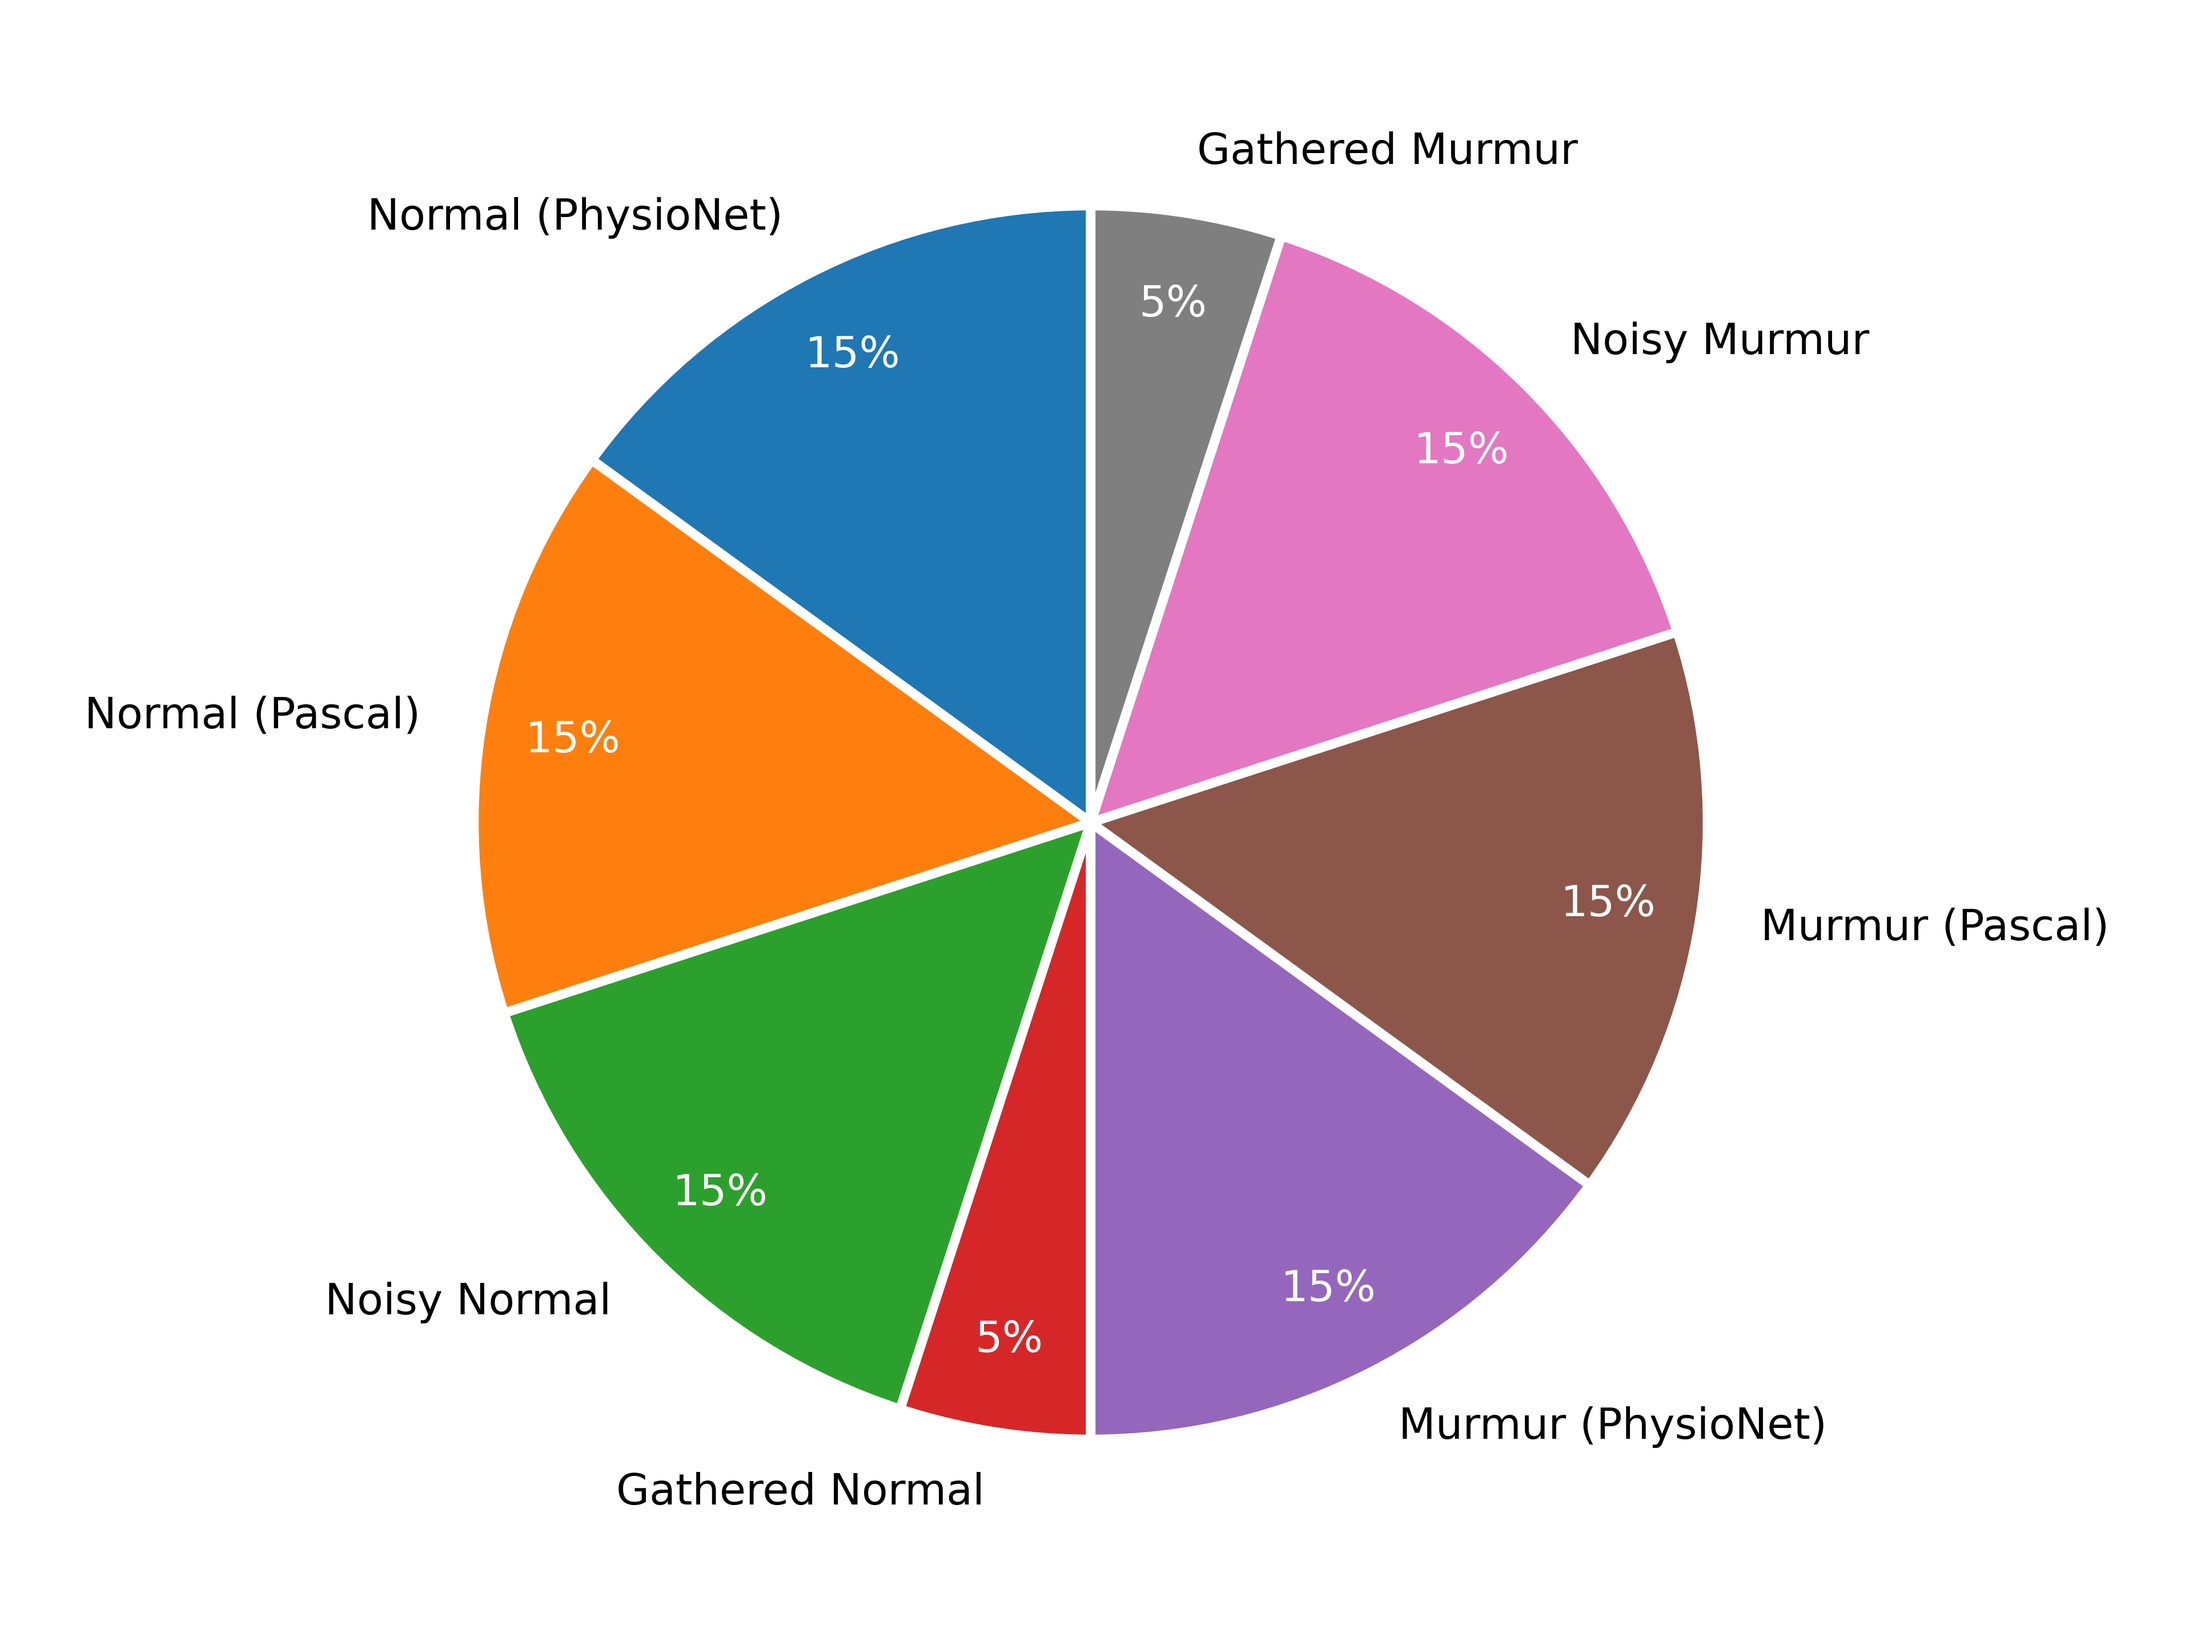
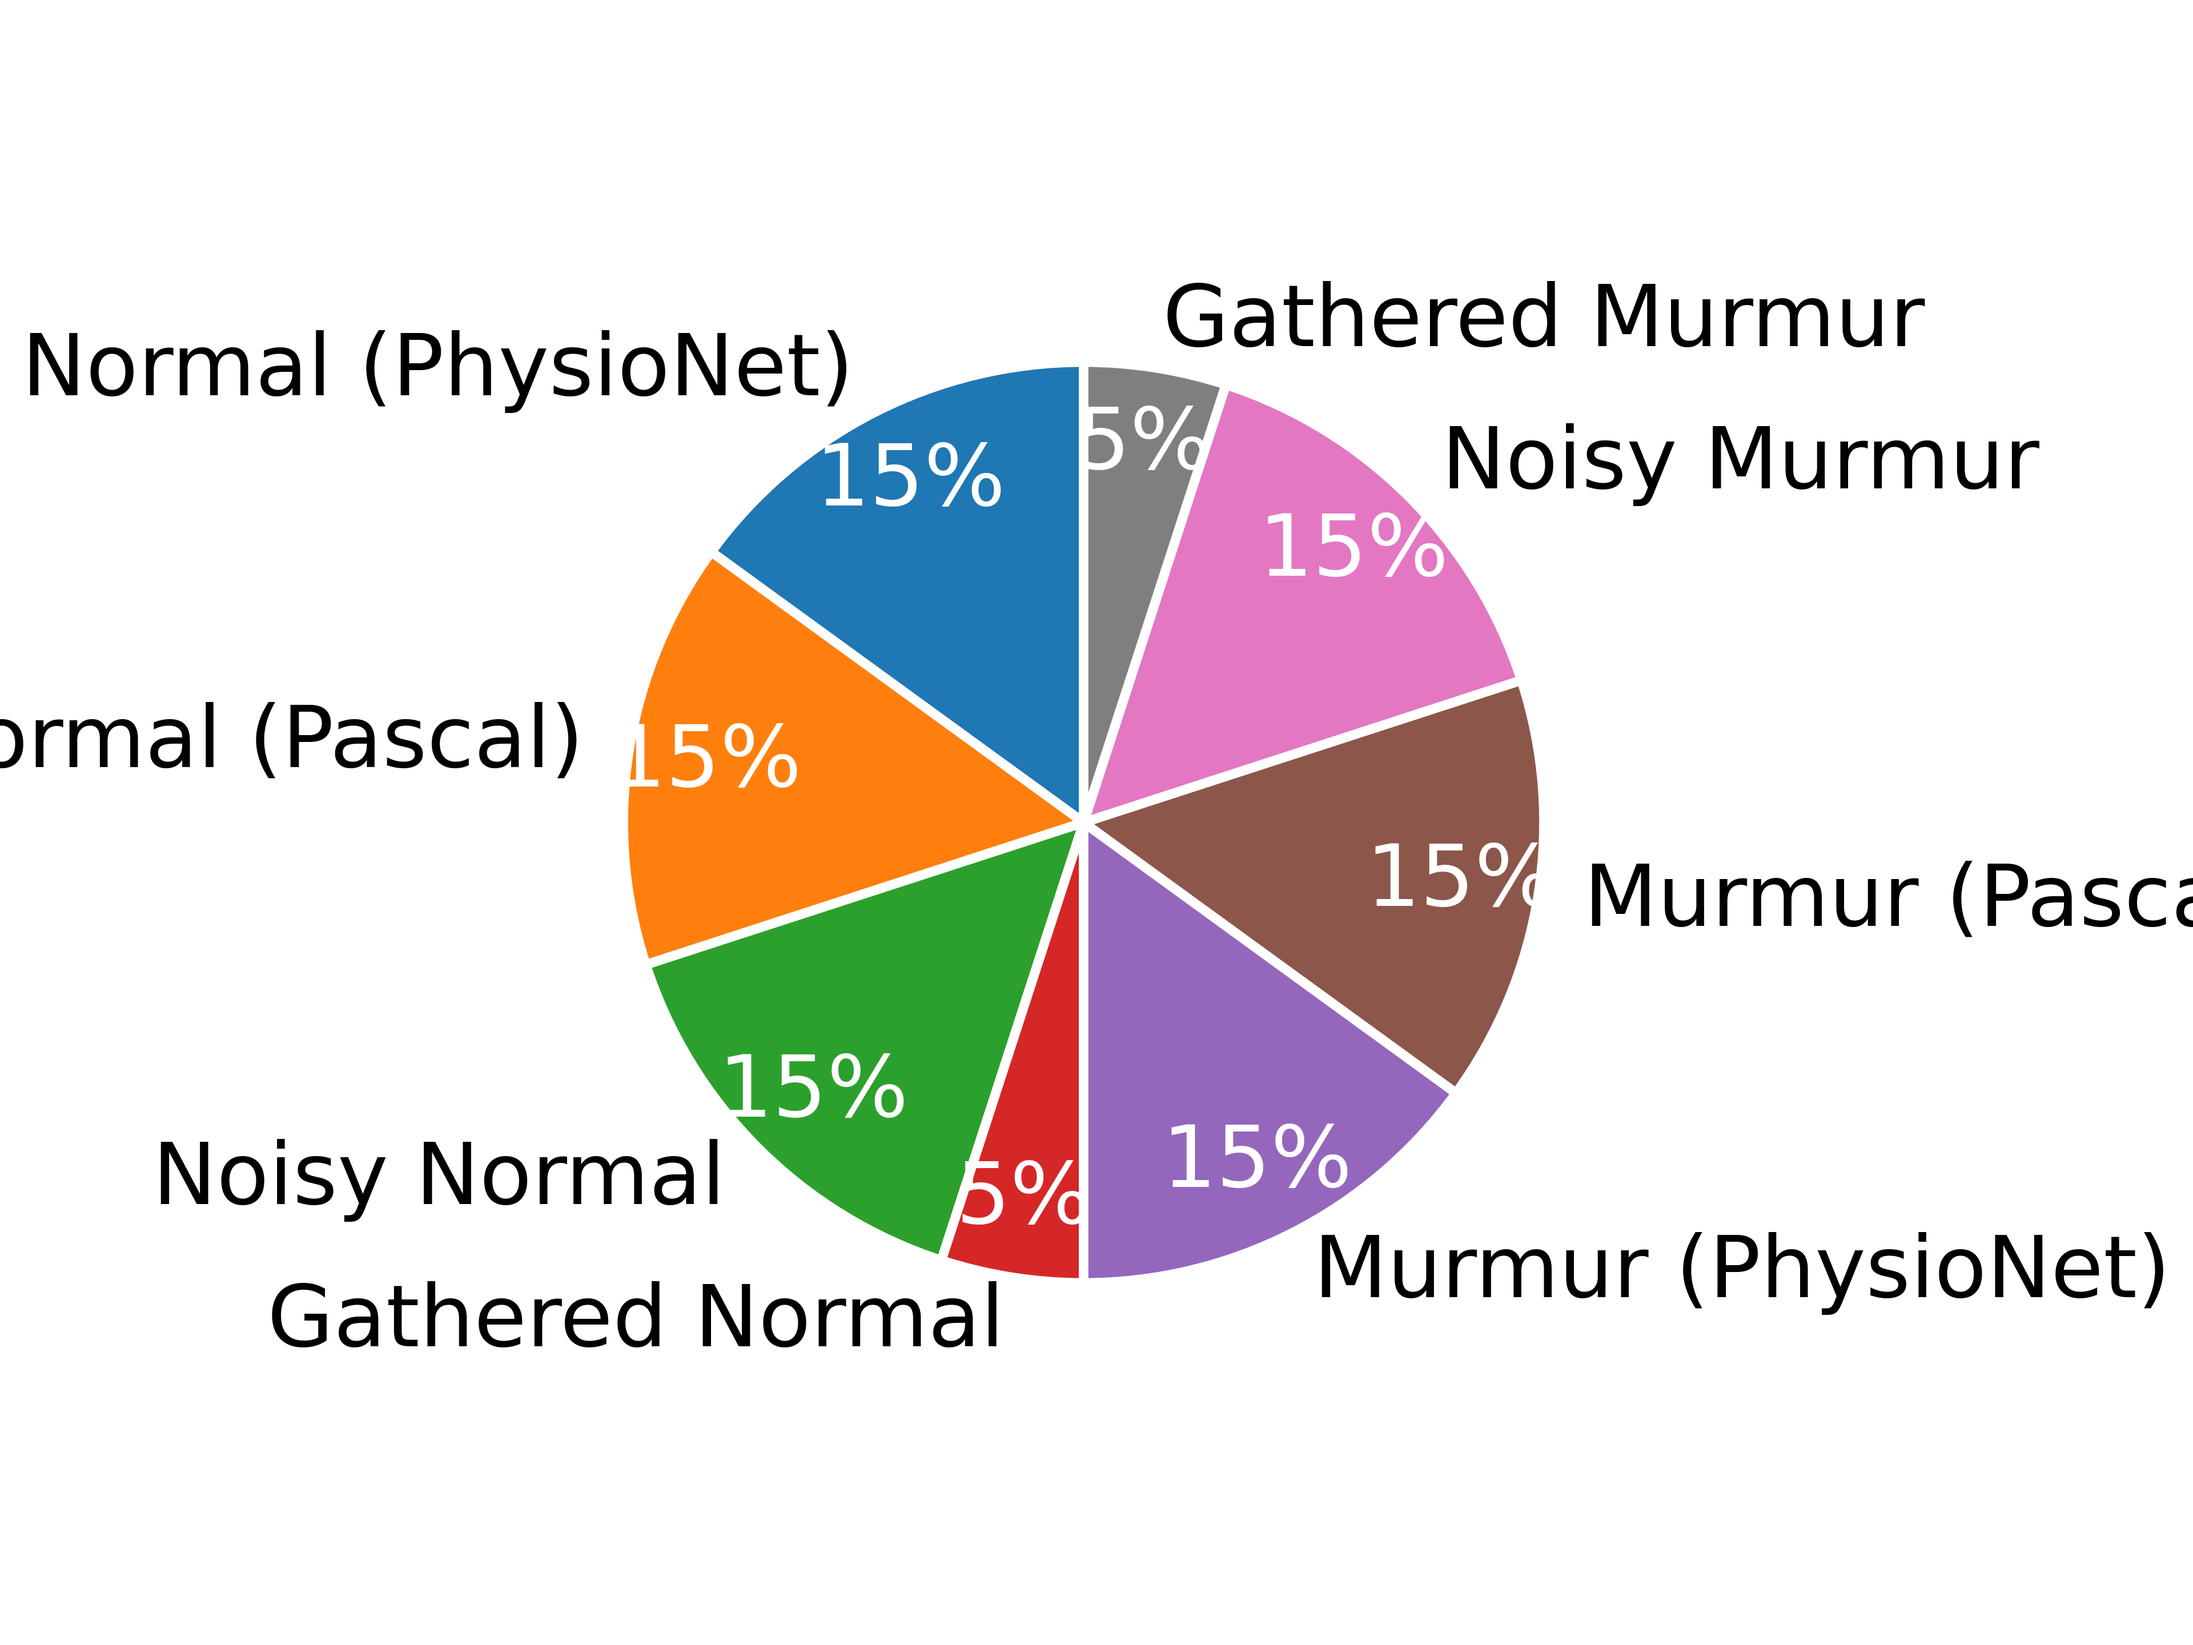
dataset distribution script

diff --git a/dataset_distribution.py b/dataset_distribution.py
@@ -8,8 +8,8 @@ labels = ["Normal (PhysioNet)", "Normal (Pascal)", "Noisy Normal", "Gathered Nor
 fig, ax = plt.subplots()
 
 # Capture each of the return elements.
-patches, texts, pcts = ax.pie(y, labels=labels, startangle=90, autopct='%1.f%%', radius=1.0, pctdistance=0.85,
-                              wedgeprops={'linewidth': 2.0, 'edgecolor': 'white'}, textprops={'size': 9})
+patches, texts, pcts = ax.pie(y, labels=labels, startangle=90, autopct='%1.f%%', radius=1.5, pctdistance=0.83,
+                              wedgeprops={'linewidth': 2.0, 'edgecolor': 'white'}, textprops={'size': 18})
 # Style just the percent values.
 plt.setp(pcts, color='white')
 plt.tight_layout()
